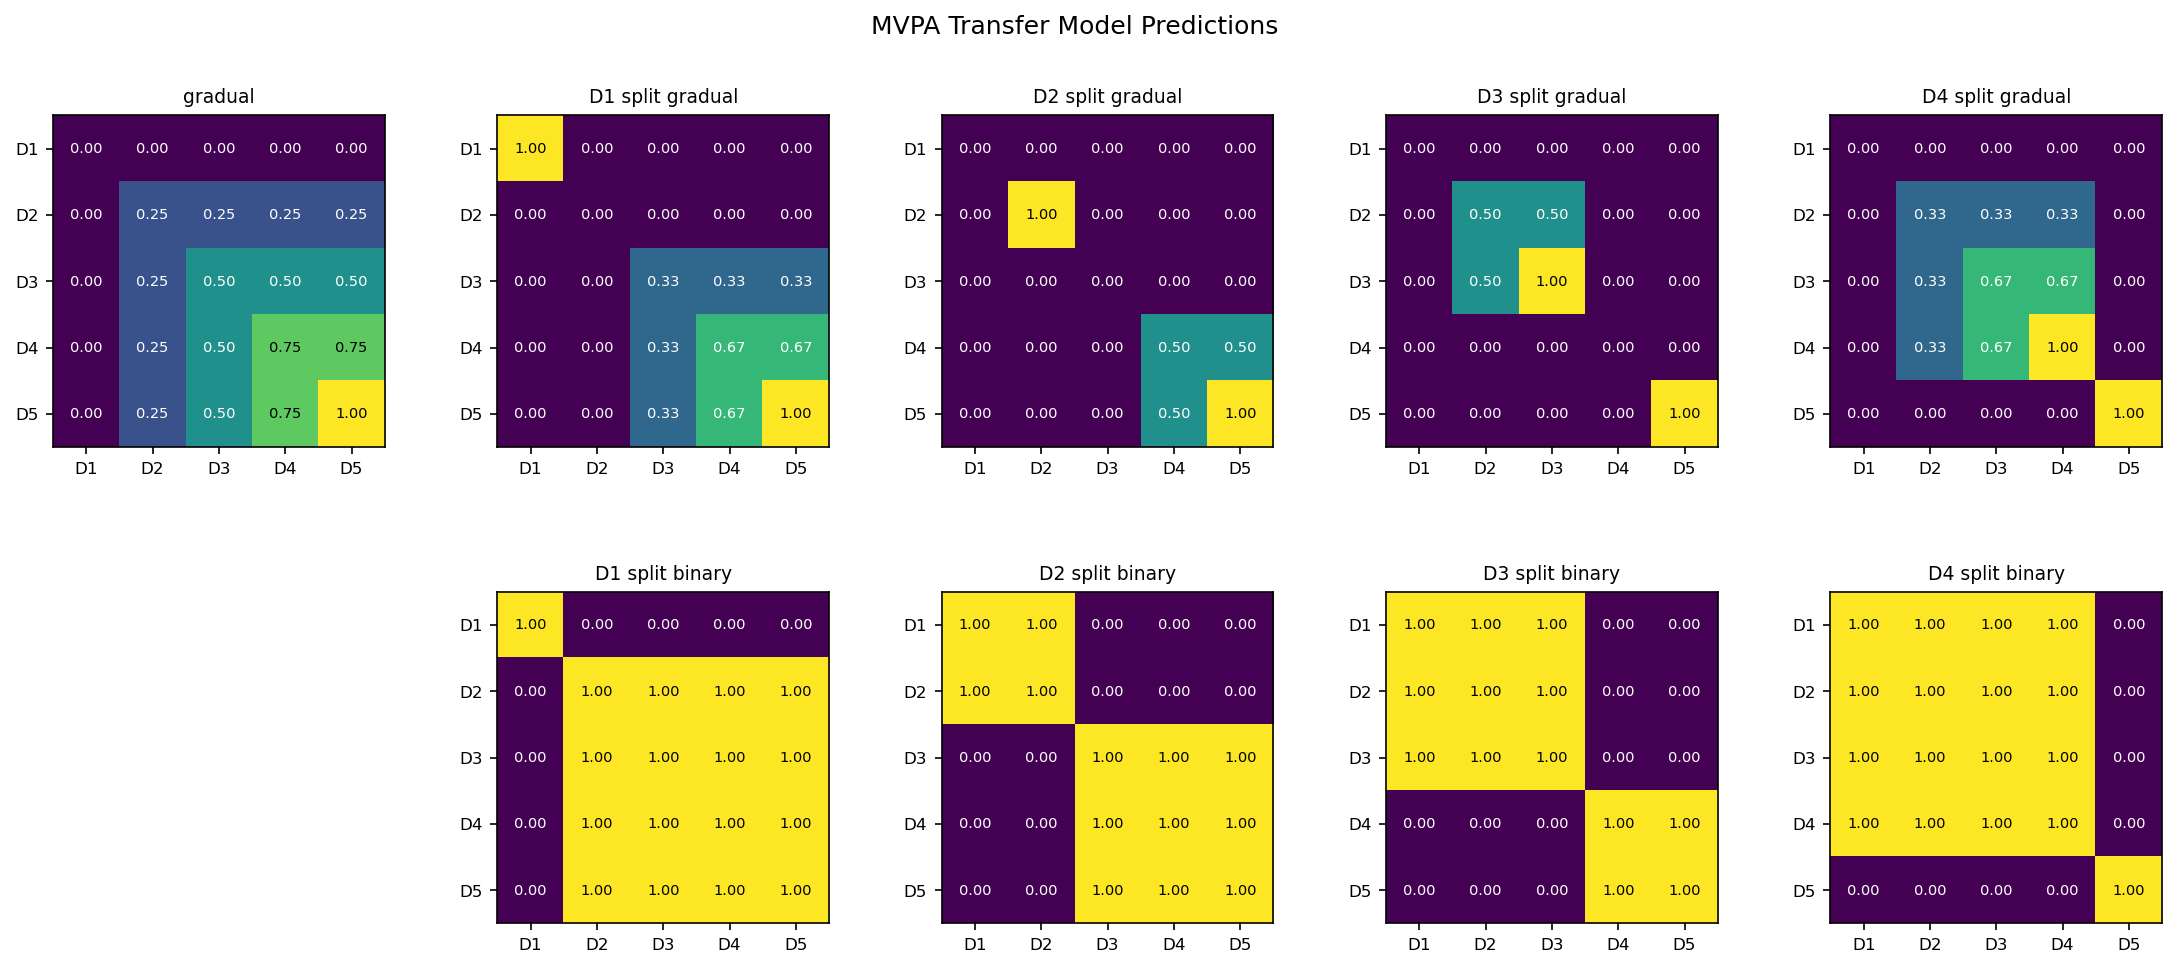
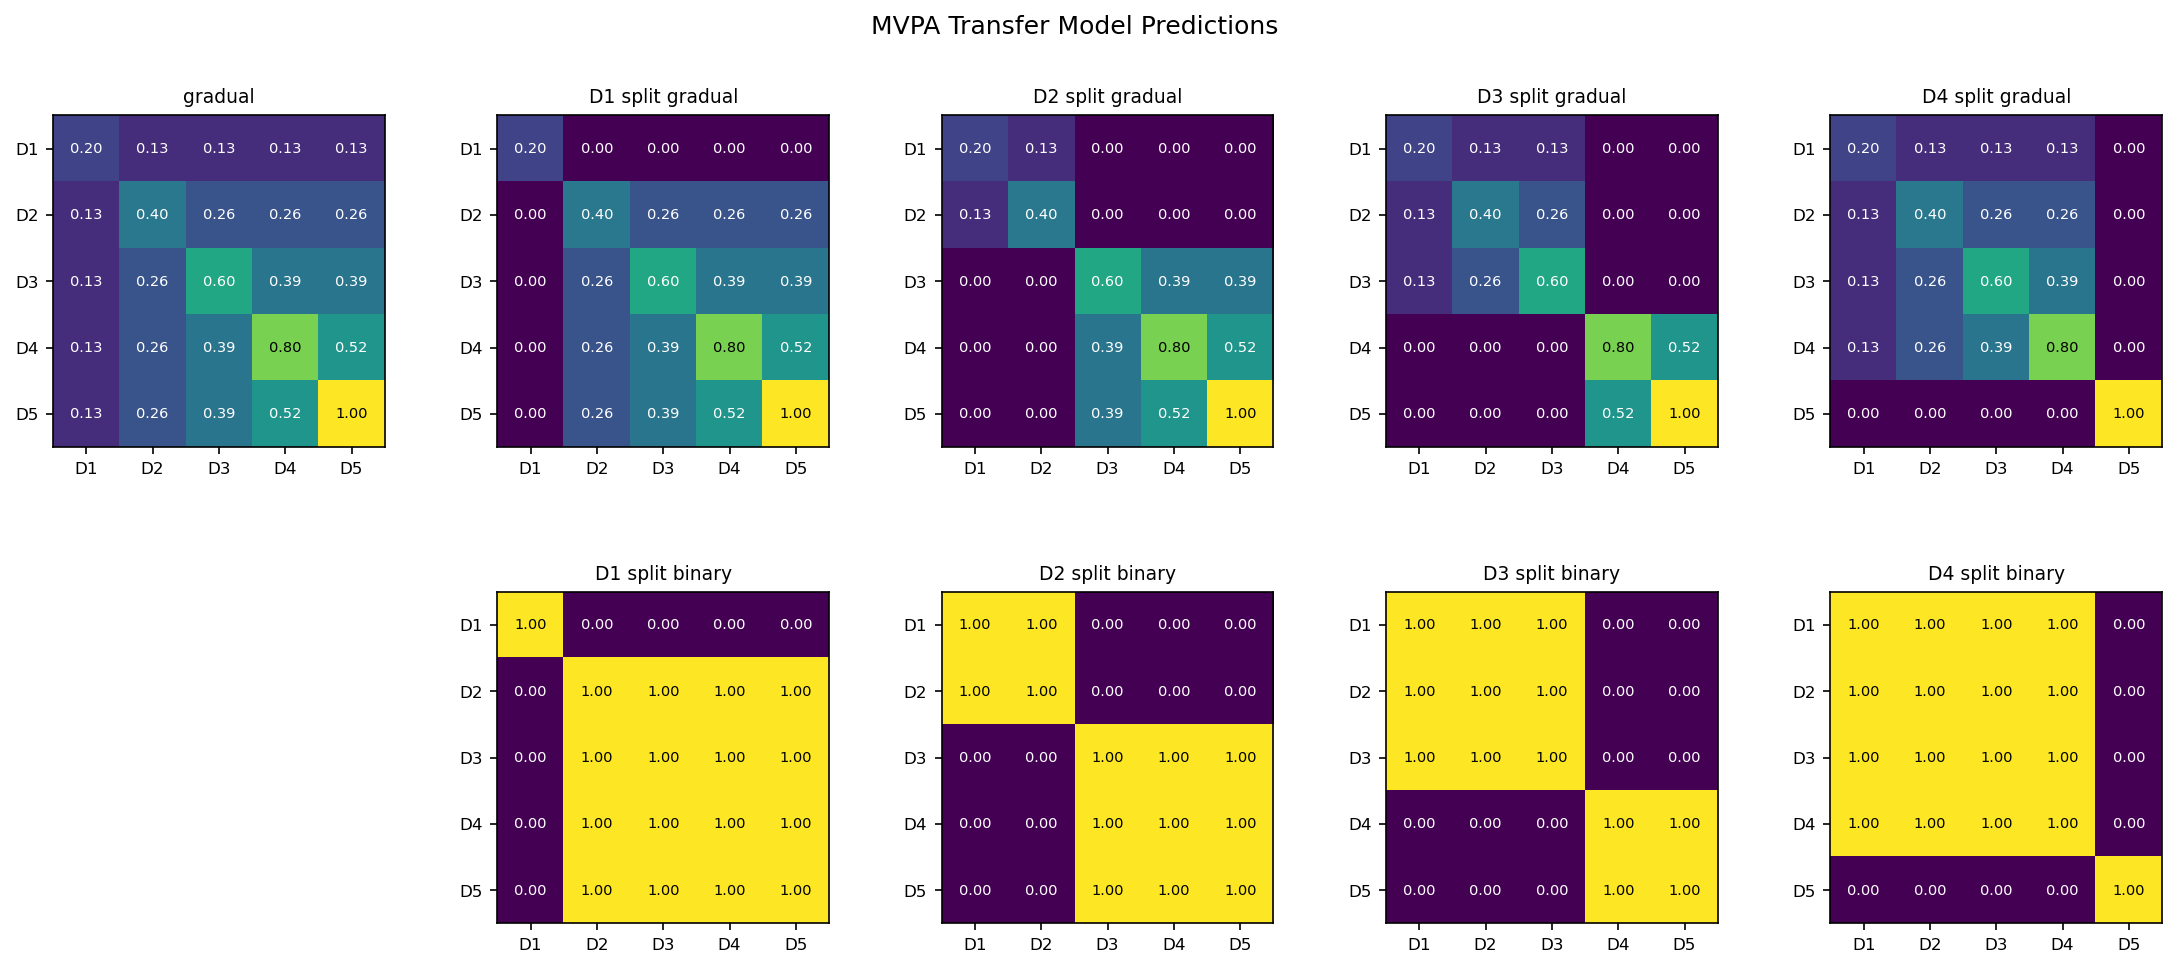
ref fig

diff --git a/code/presentation_figure.py b/code/presentation_figure.py
@@ -922,7 +922,9 @@ def template_matrix(kind, split_day=None):
     for train_day in DAYS:
         for test_day in DAYS:
             if kind == "gradual":
-                val = (min(train_day, test_day) - 1.0) / 4.0
+                val = 0.65 * min(train_day, test_day) / float(max(DAYS))
+                if train_day == test_day:
+                    val = train_day / float(max(DAYS))
             elif kind == "split_gradual":
                 if split_day is None:
                     raise ValueError("split_gradual requires split_day")
@@ -931,23 +933,9 @@ def template_matrix(kind, split_day=None):
                 if train_late != test_late:
                     val = 0.0
                 else:
-                    if train_late:
-                        cluster_days = []
-                        for day in DAYS:
-                            if day > split_day:
-                                cluster_days.append(day)
-                    else:
-                        cluster_days = []
-                        for day in DAYS:
-                            if day <= split_day:
-                                cluster_days.append(day)
-                    if len(cluster_days) == 1:
-                        val = 1.0
-                    else:
-                        min_day = min(cluster_days)
-                        max_day = max(cluster_days)
-                        denom = max(float(max_day - min_day), 1.0)
-                        val = (min(train_day, test_day) - min_day) / denom
+                    val = 0.65 * min(train_day, test_day) / float(max(DAYS))
+                    if train_day == test_day:
+                        val = train_day / float(max(DAYS))
             elif kind == "split_binary":
                 if split_day is None:
                     raise ValueError("split_binary requires split_day")
